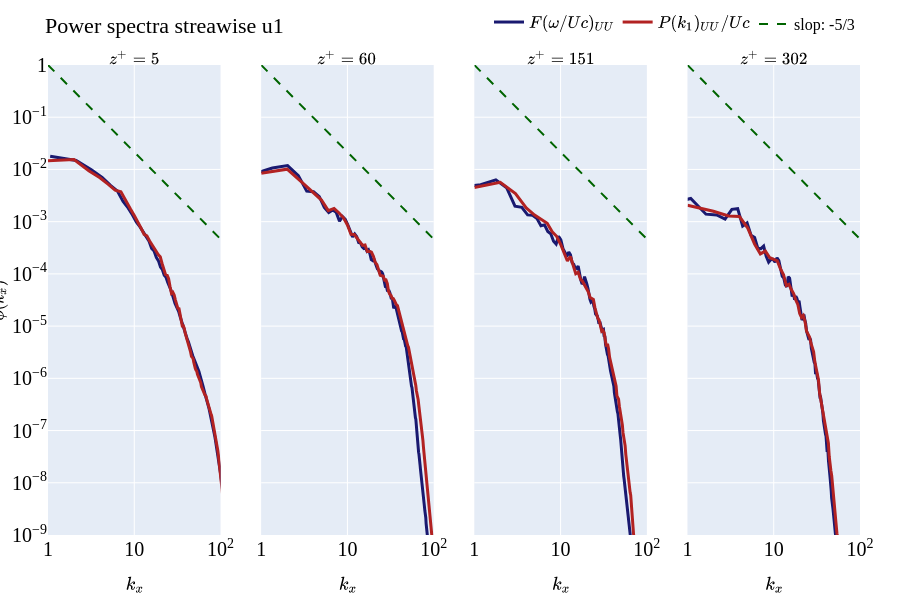
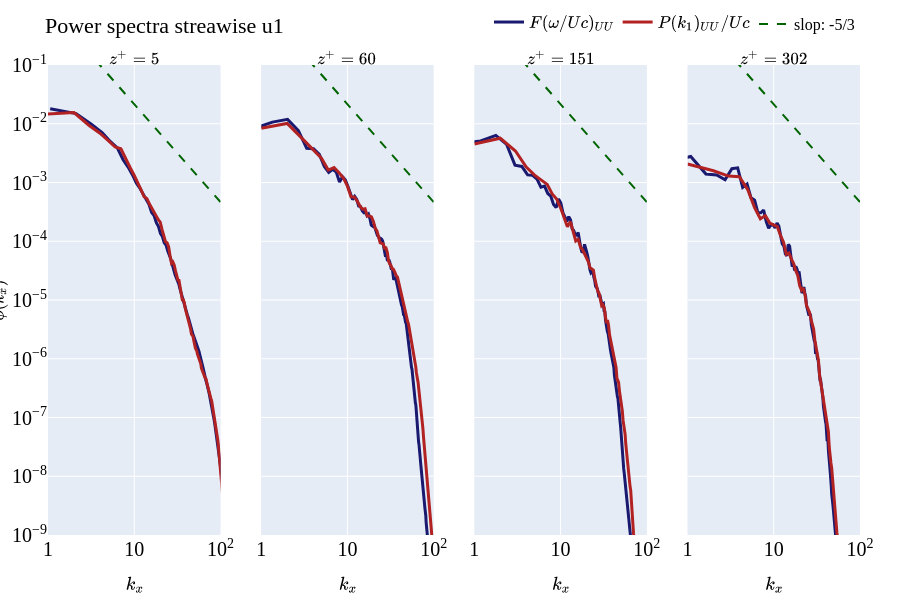
correlation1D

diff --git a/src/main.py b/src/main.py
@@ -180,16 +180,6 @@ def main():
         
         datas_u1 = datas_u1 - U1
         
-        #### Autocorrelation ####
-        # ind1, ind2, Dt, Dx, R_time, R_space = frozen_turbulence(datas_u1, ind, zp, nt, split_time, dt, n1, ch="corr", dx=dx, Uc=U1)
-
-        # frozen_turbulence_plot(fig2u1, col, row, Uc=U1, R_time = R_time[:ind1], R_space = R_space[:ind2], Dt = Dt[:ind1], Dx = Dx[:ind2], ch = "corr")
-        
-        # del Dt
-        # del Dx
-        # del R_time
-        # del R_space
-        
         #### Autocorrelation 2D ####
         
         Dt, Dx, R2d, coef = frozen_turbulence(datas_u1, ind, zp, nt, split_time, dt, n1, ch = "corr2d")
@@ -205,6 +195,18 @@ def main():
         del Dt
         del Dx
         del R2d
+        
+        #### Autocorrelation ####
+        ind1, ind2, Dt, Dx, R_time, R_space = frozen_turbulence(datas_u1, ind, zp, nt, split_time, dt, n1, ch="corr", dx=dx, Uc=U1)
+
+        # frozen_turbulence_plot(fig2u1, col, row, Uc=Uc_list[cpt], R_time = R_time[:ind1], R_space = R_space[:ind2], Dt = Dt[:ind1], Dx = Dx[:ind2], ch = "corr")
+        frozen_turbulence_plot(fig2u1, col, row, Uc=Uc_list[cpt], R_time = R_time[:], R_space = R_space[:], Dt = Dt[:], Dx = Dx[:], ch = "corr")
+        
+        
+        del Dt
+        del Dx
+        del R_time
+        del R_space
     
         #### Spectra ####
         omega, k, time_spectra, space_spectra = frozen_turbulence(datas_u1, ind, zp, nt, split_time, dt, n1, dx=dx, ch="spectra")
@@ -230,16 +232,6 @@ def main():
         datas_u2 = datas_u2 - Uy
     
         
-        #### Autocorrelation ####
-        # ind1, ind2, Dt, Dx, R_time, R_space = frozen_turbulence(datas_u2, ind, zp, nt, split_time, dt, n1, ch="corr", dx=dx, Uc=U1)
-
-        # frozen_turbulence_plot(fig2u2, col, row, Uc=U1, R_time = R_time[:ind1], R_space = R_space[:ind2], Dt = Dt[:ind1], Dx = Dx[:ind2], ch = "corr")
-        
-        # del Dt
-        # del Dx
-        # del R_time
-        # del R_space
-        
         #### Autocorrelation 2D ####
         
         Dt, Dx, R2d, coef = frozen_turbulence(datas_u2, ind, zp, nt, split_time, dt, n1, ch = "corr2d")
@@ -249,6 +241,18 @@ def main():
         del Dt
         del Dx
         del R2d
+        
+        #### Autocorrelation ####
+        ind1, ind2, Dt, Dx, R_time, R_space = frozen_turbulence(datas_u2, ind, zp, nt, split_time, dt, n1, ch="corr", dx=dx, Uc=U1)
+
+        # frozen_turbulence_plot(fig2u2, col, row, Uc=Uc_list[cpt], R_time = R_time[:ind1], R_space = R_space[:ind2], Dt = Dt[:ind1], Dx = Dx[:ind2], ch = "corr")
+        frozen_turbulence_plot(fig2u2, col, row, Uc=Uc_list[cpt], R_time = R_time[:], R_space = R_space[:], Dt = Dt[:], Dx = Dx[:], ch = "corr")
+        
+        
+        del Dt
+        del Dx
+        del R_time
+        del R_space
     
         #### Spectra ####
         omega, k, time_spectra, space_spectra = frozen_turbulence(datas_u2, ind, zp, nt, split_time, dt, n1, dx=dx, ch="spectra")
@@ -272,16 +276,6 @@ def main():
 
         datas_u3 = datas_u3 - Uz
         
-        #### Autocorrelation ####
-        # ind1, ind2, Dt, Dx, R_time, R_space = frozen_turbulence(datas_u3, ind, zp, nt, split_time, dt, n1, ch="corr", dx=dx, Uc=U1)
-
-        # frozen_turbulence_plot(fig2u3, col, row, Uc=U1, R_time = R_time[:ind1], R_space = R_space[:ind2], Dt = Dt[:ind1], Dx = Dx[:ind2], ch = "corr")
-        
-        # del Dt
-        # del Dx
-        # del R_time
-        # del R_space
-        
         #### Autocorrelation 2D ####
         
         Dt, Dx, R2d, coef = frozen_turbulence(datas_u3, ind, zp, nt, split_time, dt, n1, ch = "corr2d")
@@ -291,6 +285,18 @@ def main():
         del Dt
         del Dx
         del R2d
+        
+        #### Autocorrelation ####
+        ind1, ind2, Dt, Dx, R_time, R_space = frozen_turbulence(datas_u3, ind, zp, nt, split_time, dt, n1, ch="corr", dx=dx, Uc=U1)
+
+        # frozen_turbulence_plot(fig2u3, col, row, Uc=Uc_list[cpt], R_time = R_time[:ind1], R_space = R_space[:ind2], Dt = Dt[:ind1], Dx = Dx[:ind2], ch = "corr")
+        frozen_turbulence_plot(fig2u3, col, row, Uc=Uc_list[cpt], R_time = R_time[:], R_space = R_space[:], Dt = Dt[:], Dx = Dx[:], ch = "corr")
+        
+        
+        del Dt
+        del Dx
+        del R_time
+        del R_space
     
         #### Spectra ####
         omega, k, time_spectra, space_spectra = frozen_turbulence(datas_u3, ind, zp, nt, split_time, dt, n1, dx=dx, ch="spectra")
@@ -338,15 +344,15 @@ def main():
         
         if split_time == 'Y':
             save_figures(fig1u1, "split_time/frozen_turbulence/power_spectra/u1.png")
-            #save_figures(fig2u1, "split_time/frozen_turbulence/correlation_st/u1.png")
+            save_figures(fig2u1, "split_time/frozen_turbulence/correlation_st/u1.png")
             save_figures(fig3u1, "split_time/frozen_turbulence/correlation2D/u1.png")
             
             save_figures(fig1u2, "split_time/frozen_turbulence/power_spectra/u2.png")
-            #save_figures(fig2u2, "split_time/frozen_turbulence/correlation_st/u2.png")
+            save_figures(fig2u2, "split_time/frozen_turbulence/correlation_st/u2.png")
             save_figures(fig3u2, "split_time/frozen_turbulence/correlation2D/u2.png")
         
             save_figures(fig1u3, "split_time/frozen_turbulence/power_spectra/u3.png")
-            #save_figures(fig2u3, "split_time/frozen_turbulence/correlation_st/u3.png")
+            save_figures(fig2u3, "split_time/frozen_turbulence/correlation_st/u3.png")
             save_figures(fig3u3, "split_time/frozen_turbulence/correlation2D/u3.png")
             
             save_figures(figU, "split_time/frozen_turbulence/correlation2D/u_ratio.png")
@@ -380,15 +386,15 @@ def main():
         
         if split_time == 'Y':
             save_figures(fig1u1, "split_time/frozen_turbulence/power_spectra/u1_all.png")
-            #save_figures(fig2u1, "split_time/frozen_turbulence/correlation_st/u1_all.png")
+            save_figures(fig2u1, "split_time/frozen_turbulence/correlation_st/u1_all.png")
             save_figures(fig3u1, "split_time/frozen_turbulence/correlation2D/u1_all.png")
             
             save_figures(fig1u2, "split_time/frozen_turbulence/power_spectra/u2_all.png")
-            #save_figures(fig2u2, "split_time/frozen_turbulence/correlation_st/u2_all.png")
+            save_figures(fig2u2, "split_time/frozen_turbulence/correlation_st/u2_all.png")
             save_figures(fig3u2, "split_time/frozen_turbulence/correlation2D/u2_all.png")
             
             save_figures(fig1u3, "split_time/frozen_turbulence/power_spectra/u3_all.png")
-            #save_figures(fig2u3, "split_time/frozen_turbulence/correlation_st/u3_all.png")
+            save_figures(fig2u3, "split_time/frozen_turbulence/correlation_st/u3_all.png")
             save_figures(fig3u3, "split_time/frozen_turbulence/correlation2D/u3_all.png")
             
             save_figures(figU, "split_time/frozen_turbulence/correlation2D/u_ratio_all.png")

diff --git a/src/plot_figures.py b/src/plot_figures.py
@@ -42,7 +42,7 @@ def frozen_turbulence_plot(fig, col, row, omega = None, Uc = None, time_spectra 
             
             # Update axis properties
             fig.update_xaxes(range=[0,2], title_text="$k_x$", type="log", exponentformat='power', minexponent= 1, dtick=1, row=row, col=col)
-            fig.update_yaxes(range=[-9,0], type="log", exponentformat='power')
+            fig.update_yaxes(range=[-9,-1], type="log", exponentformat='power')
             
             
         else:
@@ -55,24 +55,24 @@ def frozen_turbulence_plot(fig, col, row, omega = None, Uc = None, time_spectra 
             
             # Update axis properties
             fig.update_xaxes(range=[0,2],title_text="$k_x$", type="log", exponentformat='power', minexponent= 1, dtick=1, row=row, col=col)
-            fig.update_yaxes(range=[-9,0], type="log", exponentformat='power')
+            fig.update_yaxes(range=[-9,-1], type="log", exponentformat='power')
             
         
     if ch == "corr":
         
         if col == 4 and row == 1:
-            fig.add_trace(go.Scatter(x=Dt, y=R_time, name='time', line=dict(color='midnightblue', width=3)), row=row, col=col)
+            fig.add_trace(go.Scatter(x=Dt, y=R_time*Uc, name='time', line=dict(color='midnightblue', width=3)), row=row, col=col)
             # R_space_interpol = np.interp(Dt*Uc, Dx, R_space)
             # fig.add_trace(go.Scatter(x=Dt, y=R_space_interpol, name='space', line=dict(color='firebrick', width=3)), row=row, col=col)
-            fig.add_trace(go.Scatter(x=Dx/Uc, y=R_space, name='space', line=dict(color='firebrick', width=3)), row=row, col=col)
+            fig.add_trace(go.Scatter(x=Dx, y=R_space*Uc, name='space', line=dict(color='firebrick', width=3)), row=row, col=col)
             
             # fit_space = np.polyfit(Dt, np.log(np.abs(R_space_interpol)), 1)
-            fit_space = np.polyfit(Dx/Uc, np.log(np.abs(R_space)), 1)
-            fit_time = np.polyfit(Dt, np.log(np.abs(R_time)), 1)
-            curve_fit_space = np.exp(fit_space[0]*Dt)
-            curve_fit_time = np.exp(fit_time[0]*Dt)
+            fit_space = np.polyfit(Dx, np.log(np.abs(R_space*Uc)), 1)
+            fit_time = np.polyfit(Dt, np.log(np.abs(R_time*Uc)), 1)
+            curve_fit_space = fit_space[0]*Dx
+            curve_fit_time = fit_time[0]*Dt
             # fig.add_trace(go.Scatter(x=Dt, y=curve_fit_space, line=dict(color='firebrick', dash='dash', width=3), name='$\\text{fit space } (\Gamma)$'), row=row, col=col)
-            fig.add_trace(go.Scatter(x=Dx/Uc, y=curve_fit_space, line=dict(color='firebrick', dash='dash', width=3), name='$\\text{fit space } (\Gamma)$'), row=row, col=col)
+            fig.add_trace(go.Scatter(x=Dx, y=curve_fit_space, line=dict(color='firebrick', dash='dash', width=3), name='$\\text{fit space } (\Gamma)$'), row=row, col=col)
             fig.add_trace(go.Scatter(x=Dt, y=curve_fit_time, line=dict(color='midnightblue', dash='dash', width=3), name='$\\text{fit time } (\gamma)$'), row=row, col=col)
             fig.add_annotation(xanchor='left',x=1.5, yanchor='bottom', y=1, text=f'$\Gamma \simeq {np.abs(fit_space[0]):.2f}$', font=font, showarrow=False, row=row, col=col)
             fig.add_annotation(xanchor='left',x=1.5, yanchor='bottom', y=0.9, text=f'$\gamma \simeq {np.abs(fit_time[0]):.2f}$', font=font, showarrow=False, row=row, col=col)
@@ -82,21 +82,21 @@ def frozen_turbulence_plot(fig, col, row, omega = None, Uc = None, time_spectra 
             
             # Update axis properties
             fig.update_xaxes(title_text="$\delta t$")
-            #fig.update_yaxes(type="log", exponentformat='power')
+            fig.update_yaxes(type="log", exponentformat='power')
             
         else:
-            fig.add_trace(go.Scatter(x=Dt, y=R_time, line=dict(color='midnightblue', width=3), showlegend=False), row=row, col=col)
+            fig.add_trace(go.Scatter(x=Dt, y=R_time*Uc, line=dict(color='midnightblue', width=3), showlegend=False), row=row, col=col)
             # R_space_interpol = np.interp(Dt*Uc, Dx, R_space)
             # fig.add_trace(go.Scatter(x=Dt, y=R_space_interpol, line=dict(color='firebrick', width=3), showlegend=False), row=row, col=col)
-            fig.add_trace(go.Scatter(x=Dx/Uc, y=R_space, line=dict(color='firebrick', width=3), showlegend=False), row=row, col=col)
+            fig.add_trace(go.Scatter(x=Dx, y=R_space*Uc, line=dict(color='firebrick', width=3), showlegend=False), row=row, col=col)
             
             # fit_space = np.polyfit(Dt, np.log(np.abs(R_space_interpol)), 1)
-            fit_space = np.polyfit(Dx/Uc, np.log(np.abs(R_space)), 1)
-            fit_time = np.polyfit(Dt, np.log(np.abs(R_time)), 1)
-            curve_fit_space = np.exp(fit_space[0]*Dt)
-            curve_fit_time = np.exp(fit_time[0]*Dt)
+            fit_space = np.polyfit(Dx, np.log(np.abs(R_space*Uc)), 1)
+            fit_time = np.polyfit(Dt, np.log(np.abs(R_time*Uc)), 1)
+            curve_fit_space = fit_space[0]*Dx
+            curve_fit_time = fit_time[0]*Dt
             # fig.add_trace(go.Scatter(x=Dt, y=curve_fit_space, line=dict(color='firebrick', dash='dash', width=3), name='$y=\\frac{1}{U_c}e^{-\Gamma\delta t*U_c}$', showlegend=False), row=row, col=col)
-            fig.add_trace(go.Scatter(x=Dx/Uc, y=curve_fit_space, line=dict(color='firebrick', dash='dash', width=3), name='$y=\\frac{1}{U_c}e^{-\Gamma\delta t*U_c}$', showlegend=False), row=row, col=col)
+            fig.add_trace(go.Scatter(x=Dx, y=curve_fit_space, line=dict(color='firebrick', dash='dash', width=3), name='$y=\\frac{1}{U_c}e^{-\Gamma\delta t*U_c}$', showlegend=False), row=row, col=col)
             fig.add_trace(go.Scatter(x=Dt, y=curve_fit_time, line=dict(color='midnightblue', dash='dash', width=3), name='$y=\\frac{1}{U_c}e^{-\gamma\delta t}$', showlegend=False), row=row, col=col)
             fig.add_annotation(xanchor='left',x=1.5, yanchor='bottom', y=1, text=f'$\Gamma \simeq {np.abs(fit_space[0]):.2f}$', font=font, showarrow=False, row=row, col=col)
             fig.add_annotation(xanchor='left',x=1.5, yanchor='bottom', y=0.9, text=f'$\gamma \simeq {np.abs(fit_time[0]):.2f}$', font=font, showarrow=False, row=row, col=col)
